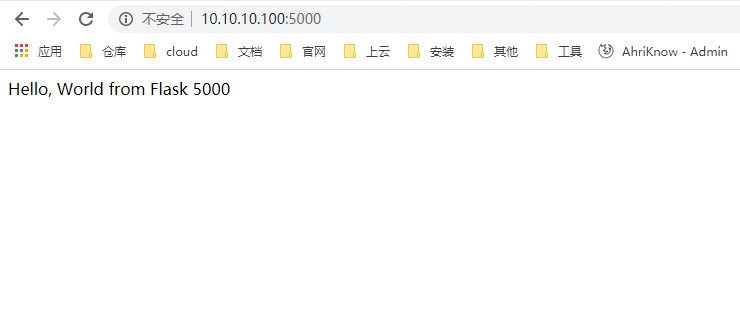
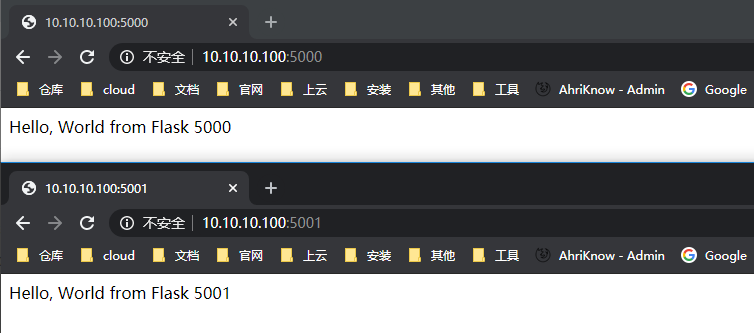
20200110-1

diff --git a/docs/.vuepress/components/CategoryList.vue b/docs/.vuepress/components/CategoryList.vue
@@ -1,69 +1,70 @@
 <template>
-  <div id="category-list" class="category-list">
-    <h3>所有文章：</h3>
-    <div class="list">
-      <a class="link" href="/hacker">
-        Be a Hacker
-        <span>正在更新</span>
-      </a>
-    </div>
-    <div class="list">
-      <a class="link" href="/Linux运维">
-        Linux运维
-        <span>正在更新</span>
-      </a>
-    </div>
-    <div class="list">
-      <a class="link" href="/docker">
-        Docker
-        <!-- <span>正在更新</span> -->
-      </a>
-    </div>
-    <div class="list">
-      <a class="link" href="/redis">
-        Redis
-        <span>待补充</span>
-      </a>
-    </div>
-    <div class="list">
-      <a class="link" href="/mongo">
-        Mongo
-        <span>正在更新</span>
-      </a>
-    </div>
-    <div class="list">
-      <a class="link" href="/nginx">
-        Nginx
-        <span>正在更新</span>
-      </a>
-    </div>
-    <!-- <div class="list">
+    <div id="category-list" class="category-list">
+        <h3>所有文章：</h3>
+        <div class="list">
+            <a class="link" href="/hacker">
+                Be a Hacker
+                <span>准备毕设，暂停更新</span>
+            </a>
+        </div>
+        <br />
+        <div class="list">
+            <a class="link" href="/Linux运维">
+                Linux运维
+                <span>正在更新</span>
+            </a>
+        </div>
+        <div class="list">
+            <a class="link" href="/docker">
+                Docker
+                <!-- <span>正在更新</span> -->
+            </a>
+        </div>
+        <div class="list">
+            <a class="link" href="/redis">
+                Redis
+                <span>待补充</span>
+            </a>
+        </div>
+        <div class="list">
+            <a class="link" href="/mongo">
+                Mongo
+                <span>正在更新</span>
+            </a>
+        </div>
+        <div class="list">
+            <a class="link" href="/nginx">
+                Nginx
+                <span>正在更新</span>
+            </a>
+        </div>
+        <!-- <div class="list">
       <a class="link" href="/lvs">
         LVS
         <span>测试</span>
       </a>
     </div> -->
-  </div>
+    </div>
 </template>
 
 <script>
 export default {
-  name: "category-list"
-};
+    name: 'category-list'
+}
 </script>
 
 <style scoped>
 #category-list {
-  border-bottom: solid 1px #ddd;
-  padding-bottom: 10px;
+    border-bottom: solid 1px #ddd;
+    padding-bottom: 10px;
 }
 #category-list > .list {
-  padding-left: 40px;
+    padding-left: 40px;
 }
 #category-list > .list > .link {
-  font-size: 22px;
+    font-size: 22px;
 }
 #category-list > .list > .link > span {
-  font-size: 12px;
+    font-size: 12px;
 }
 </style>

diff --git a/config/sidebarConf/nginx/index.js b/config/sidebarConf/nginx/index.js
@@ -3,9 +3,11 @@ const utils = require('../../../utils/index')
 module.exports = [
     utils.genSidebar('Nginx', [
         'Nginx基本概念',
-        'CentOS7应用Nginx',
+        'CentOS7安装Nginx',
+        'Docker安装Nginx',
         'Nginx配置文件',
         'Nginx反向代理',
+        'Nginx负载均衡',
         '待续'
     ])
 ]

diff --git a/config/sidebarConf/docker/index.js b/config/sidebarConf/docker/index.js
@@ -3,8 +3,8 @@ const utils = require('../../../utils/index')
 module.exports = [
     utils.genSidebar('Docker (容器技术)', [
         '前世今生',
-        'CentOS7安装Docker',
         'Docker使用前提',
+        'CentOS7安装Docker',
         'Docker镜像命令',
         'Docker容器命令',
         'Docker网络配置',

diff --git a/docs/nginx/Docker安装Nginx.md b/docs/nginx/Docker安装Nginx.md
@@ -1,0 +1,108 @@
+---
+title: Docker安装Nginx
+sidebarDepth: 3
+---
+
+## 本页目录
+
+[[toc]]
+::: tip
+
+#### 非 root 用户 请添加 sudo
+
+:::
+
+## 安装
+
+> Docker 的安装及应用详见：[https://docs.ahriknow.com/docker/](https://docs.ahriknow.com/docker/)
+
+### 拉取镜像
+
+```sh
+[root@localhost ~]# docker pull nginx
+Using default tag: latest
+latest: Pulling from library/nginx
+8ec398bc0356: Pull complete
+dfb2a46f8c2c: Pull complete
+b65031b6a2a5: Pull complete
+Digest: sha256:8aa7f6a9585d908a63e5e418dc5d14ae7467d2e36e1ab4f0d8f9d059a3d071ce
+Status: Downloaded newer image for nginx:latest
+docker.io/library/nginx:latest
+[root@localhost ~]# docker image ls
+REPOSITORY          TAG                 IMAGE ID            CREATED             SIZE
+nginx               latest              c7460dfcab50        8 hours ago         126MB
+[root@localhost ~]#
+```
+
+### 创建启动 nginx 容器
+
+```sh
+[root@localhost ~]# docker container run --name nginx1 -p 8000:80 -d nginx
[1 lines of base64/hex data omitted]
+[root@localhost ~]# docker container ls
+CONTAINER ID        IMAGE               COMMAND                  CREATED             STATUS              PORTS                  NAMES
+56fe90a79c00        nginx               "nginx -g 'daemon of…"   4 minutes ago       Up 4 minutes        0.0.0.0:8000->80/tcp   nginx1
+[root@localhost ~]#
+```
+
+![docker-nginx.png](./static/docker-nginx.png)
+
+### 挂载目录到容器
+
+#### 创建本地目录
+
+```sh
+[root@localhost ~]# mkdir -p /tmp/nginx/conf.d
+[root@localhost ~]# mkdir -p /tmp/nginx/html
+[root@localhost ~]# mkdir -p /tmp/nginx/logs
+[root@localhost ~]# touch /tmp/nginx/nginx.conf
+[root@localhost ~]# tree /tmp/nginx/
+/tmp/nginx/
+├── conf.d
+├── html
+└── logs
+
+3 directories, 0 files
+[root@localhost ~]#
+```
+
+#### 创建配置文件
+
+-   从现有容器中复制出来 (或 重新编写)
+
+```sh
+[root@localhost ~]# docker container cp 56fe90a79c00:/etc/nginx/nginx.conf /tmp/nginx/
+[root@localhost ~]# docker container cp 56fe90a79c00:/etc/nginx/conf.d/default.conf /tmp/nginx/conf.d/
+
+# 创建 index.html
+[root@localhost ~]# echo "<h1>Hello, ahri.</h1>" > /tmp/nginx/html/index.html
+[root@localhost ~]# tree /tmp/nginx/
+/tmp/nginx/
+├── conf.d
+│   └── default.conf
+├── html
+│   └── index.html
+├── logs
+│   ├── access.log
+│   └── error.log
+└── nginx.conf
+
+3 directories, 5 files
+[root@localhost ~]#
+```
+
+#### 创建启动容器
+
+```sh
+[root@localhost ~]# docker container run --name nginx2 -p 8001:80 -v /tmp/nginx/nginx.conf:/etc/nginx/nginx.conf -v /tmp/nginx/conf.d:/etc/nginx/conf.d -v /tmp/nginx/html:/usr/share/nginx/html -v /tmp/nginx/logs:/var/log/nginx -d nginx
[1 lines of base64/hex data omitted]
+[root@localhost ~]# docker container ls
+CONTAINER ID        IMAGE               COMMAND                  CREATED             STATUS              PORTS                  NAMES
+12e2142ab074        nginx               "nginx -g 'daemon of…"   6 seconds ago       Up 6 seconds        0.0.0.0:8001->80/tcp   nginx2
+56fe90a79c00        nginx               "nginx -g 'daemon of…"   10 minutes ago      Up 10 minutes       0.0.0.0:8000->80/tcp   nginx1
+[root@localhost ~]#
+```
+
+![docker-nginx2.png](./static/docker-nginx2.png)
+
+<Valine />

diff --git a/docs/nginx/Nginx负载均衡.md b/docs/nginx/Nginx负载均衡.md
@@ -1,0 +1,68 @@
+---
+title: Nginx负载均衡
+sidebarDepth: 3
+---
+
+## 本页目录
+
+[[toc]]
+
+## 前置环境
+
+#### 在本地 host 文件添加映射
+
+`10.10.10.100 fox.com`
+
+`10.10.10.100 ahri.com`
+
+#### 启动应用服务
+
+![flask5000.png](./static/flask5000.png)
+![flask5001.png](./static/flask5001.png)
+
+## 编辑 Nginx 配置文件
+
+```sh
+# 添加 server 块配置
+[root@localhost sbin]# vim /usr/local/nginx/conf/nginx.conf
+
+server {
+        listen       80;
+        server_name  ahri.com;
+
+        location / {
+            proxy_pass  http://127.0.0.1:5000;
+        }
+}
+
+[root@localhost sbin]# /usr/local/nginx/sbin/nginx -s reload
+[root@localhost sbin]#
+```
+
+![nginx-flask.png](./static/nginx-flask.png)
+
+
+```sh
+# 添加 server 块配置
+[root@localhost sbin]# vim /usr/local/nginx/conf/nginx.conf
+
+server {
+        listen       80;
+        server_name  fox.com;
+
+        location ~ /f5000/ {
+            proxy_pass  http://127.0.0.1:5000;
+        }
+
+        location ~ /f5001/ {
+            proxy_pass  http://127.0.0.1:5001;
+        }
+}
+
+[root@localhost sbin]# /usr/local/nginx/sbin/nginx -s reload
+[root@localhost sbin]#
+```
+
+![nginx-flask2.png](./static/nginx-flask2.png)
+
+<Valine />

diff --git a/docs/nginx/README.md b/docs/nginx/README.md
@@ -1,4 +1,6 @@
 - [Nginx基本概念](/nginx/Nginx基本概念)
-- [CentOS7应用Nginx](/nginx/CentOS7应用Nginx)
+- [CentOS7安装Nginx](/nginx/CentOS7安装Nginx)
+- [Docker安装Nginx](/nginx/Docker安装Nginx)
 - [Nginx配置文件](/nginx/Nginx配置文件)
 - [Nginx反向代理](/nginx/Nginx反向代理)
+- [Nginx负载均衡](/nginx/Nginx负载均衡)

diff --git a/docs/docker/README.md b/docs/docker/README.md
@@ -1,6 +1,6 @@
 - [前世今生](/docker/前世今生)
-- [CentOS7安装](/docker/CentOS7安装)
 - [Docker使用前提](/docker/Docker使用前提)
+- [CentOS7安装](/docker/CentOS7安装)
 - [Docker镜像命令](/docker/Docker镜像命令)
 - [Docker容器命令](/docker/Docker容器命令)
 - [容器网络配置](/docker/容器网络配置)

diff --git a/docs/redis/README.md b/docs/redis/README.md
@@ -1,3 +1,4 @@
+- [Redis数据类型及应用场景](/redis/Redis数据类型及应用场景)
 - [主从复制](/redis/主从复制)
 - [Redis哨兵](/redis/Redis哨兵)
 - [Redis集群](/redis/Redis集群)

diff --git a/docs/nginx/CentOS7安装Nginx.md b/docs/nginx/CentOS7安装Nginx.md
@@ -1,5 +1,5 @@
 ---
-title: CentOS7应用Nginx
+title: CentOS7安装Nginx
 sidebarDepth: 3
 ---
 
